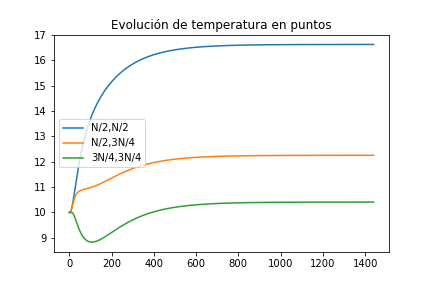
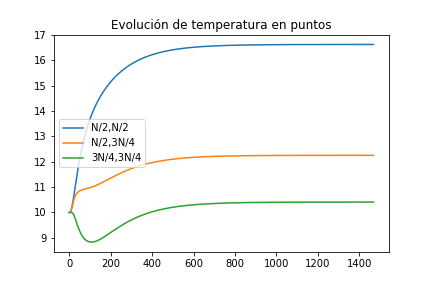
Add files via upload

diff --git a/caso_7.py b/caso_7.py
@@ -43,12 +43,12 @@ def imshowbien(u):
     xTicks_N = arange(0, Nx+1, 3)
     yTicks_N = arange(0, Ny+1, 3)
     xTicks =[coords(i,0)[0] for i in xTicks_N]
-    yTicks =[coords(0,i)[0] for i in yTicks_N]
+    yTicks =[coords(0,i)[1] for i in yTicks_N]
     xTicks_Text = ["{0:.2f}".format(tick) for tick in xTicks]
     yTicks_Text = ["{0:.2f}".format(tick) for tick in yTicks]
     xticks(xTicks_N,xTicks_Text, rotation='vertical')
     yticks(yTicks_N,yTicks_Text)
-    margins(0,2)
+    margins(0.2)
     subplots_adjust(bottom=0.15)
     
     
@@ -76,7 +76,7 @@ print(f"alpha = {alpha}")
 #Loop en el tiempo
 minuto = 60.
 hora = 3600.
-dia = 24 * 3600
+dia = 24.5 * 3600
 
 dt = 1*minuto
 dnext_t = 0.5*hora
@@ -133,8 +133,8 @@ for k in range(int32(Days/dt)):
     u_k = u_km1
     
     #CB denuevo, para asegurar cumpliemiento
-    u_k[0,:] = u_k[-1,:]-0*dx   #Borde izquierdo
-    u_k[:,0] = u_k[:,-1]-0*dy   #Borde inferior gradiente 0
+    u_k[0,:] = u_k[1,:]-0*dx   #Borde izquierdo
+    u_k[:,0] = u_k[:,1]-0*dy   #Borde inferior gradiente 0
     u_k[:,-1] = u_ambiente  #Borde superior gradiente 0
     u_k[-1,:] = u_k[-2,:]-0*dx  #Borde derecho gradiente 0
     
@@ -152,7 +152,7 @@ figure(2)
 plot(range(int32(Days/dt)),p_1,label='N/2,N/2')
 plot(range(int32(Days/dt)),p_2,label='N/2,3N/4')
 plot(range(int32(Days/dt)),p_3,label='3N/4,3N/4')
-# plot(range(int32(Days/dt)),u_ambiente,label='Ambiente',ls='--',c='k')
+#plot(range(int32(Days/dt)),u_ambiente,label='Ambiente',ls='--',c='k')
 
 title("Evolución de temperatura en puntos")
 legend()

diff --git a/GIF.py b/GIF.py
@@ -8,8 +8,8 @@ def atoi(text):
 def natural_keys(text):
     return [ atoi(c) for c in re.split(r'(\d+)', text)]
 
-fp_in = "caso_6/frame_*.png"
-fp_out = "caso_6.gif"
+fp_in = "caso_4/frame_*.png"
+fp_out = "caso_4.gif"
 
 listaImagenes = sorted(glob.glob(fp_in))
 

diff --git a/caso_1.py b/caso_1.py
@@ -70,7 +70,7 @@ print(f"alpha = {alpha}")
 #Loop en el tiempo
 minuto = 60.
 hora = 3600.
-dia = 24 * 3600
+dia = 24.5 * 3600
 
 dt = 1*minuto
 dnext_t = 0.5*hora

diff --git a/caso_2.py b/caso_2.py
@@ -76,7 +76,7 @@ print(f"alpha = {alpha}")
 #Loop en el tiempo
 minuto = 60.
 hora = 3600.
-dia = 24 * 3600
+dia = 24.5 * 3600
 
 dt = 1*minuto
 dnext_t = 0.5*hora

diff --git a/caso_3.py b/caso_3.py
@@ -76,7 +76,7 @@ print(f"alpha = {alpha}")
 #Loop en el tiempo
 minuto = 60.
 hora = 3600.
-dia = 24 * 3600
+dia = 24.5 * 3600
 
 dt = 1*minuto
 dnext_t = 0.5*hora

diff --git a/caso_4.py b/caso_4.py
@@ -76,7 +76,7 @@ print(f"alpha = {alpha}")
 #Loop en el tiempo
 minuto = 60.
 hora = 3600.
-dia = 24 * 3600
+dia = 24.5 * 3600
 
 dt = 1*minuto
 dnext_t = 0.5*hora

diff --git a/caso_5.py b/caso_5.py
@@ -76,7 +76,7 @@ print(f"alpha = {alpha}")
 #Loop en el tiempo
 minuto = 60.
 hora = 3600.
-dia = 24 * 3600
+dia = 24.5 * 3600
 
 dt = 1*minuto
 dnext_t = 0.5*hora

diff --git a/caso_6.py b/caso_6.py
@@ -76,7 +76,7 @@ print(f"alpha = {alpha}")
 #Loop en el tiempo
 minuto = 60.
 hora = 3600.
-dia = 24 * 3600
+dia = 24.5 * 3600
 
 dt = 1*minuto
 dnext_t = 0.5*hora
